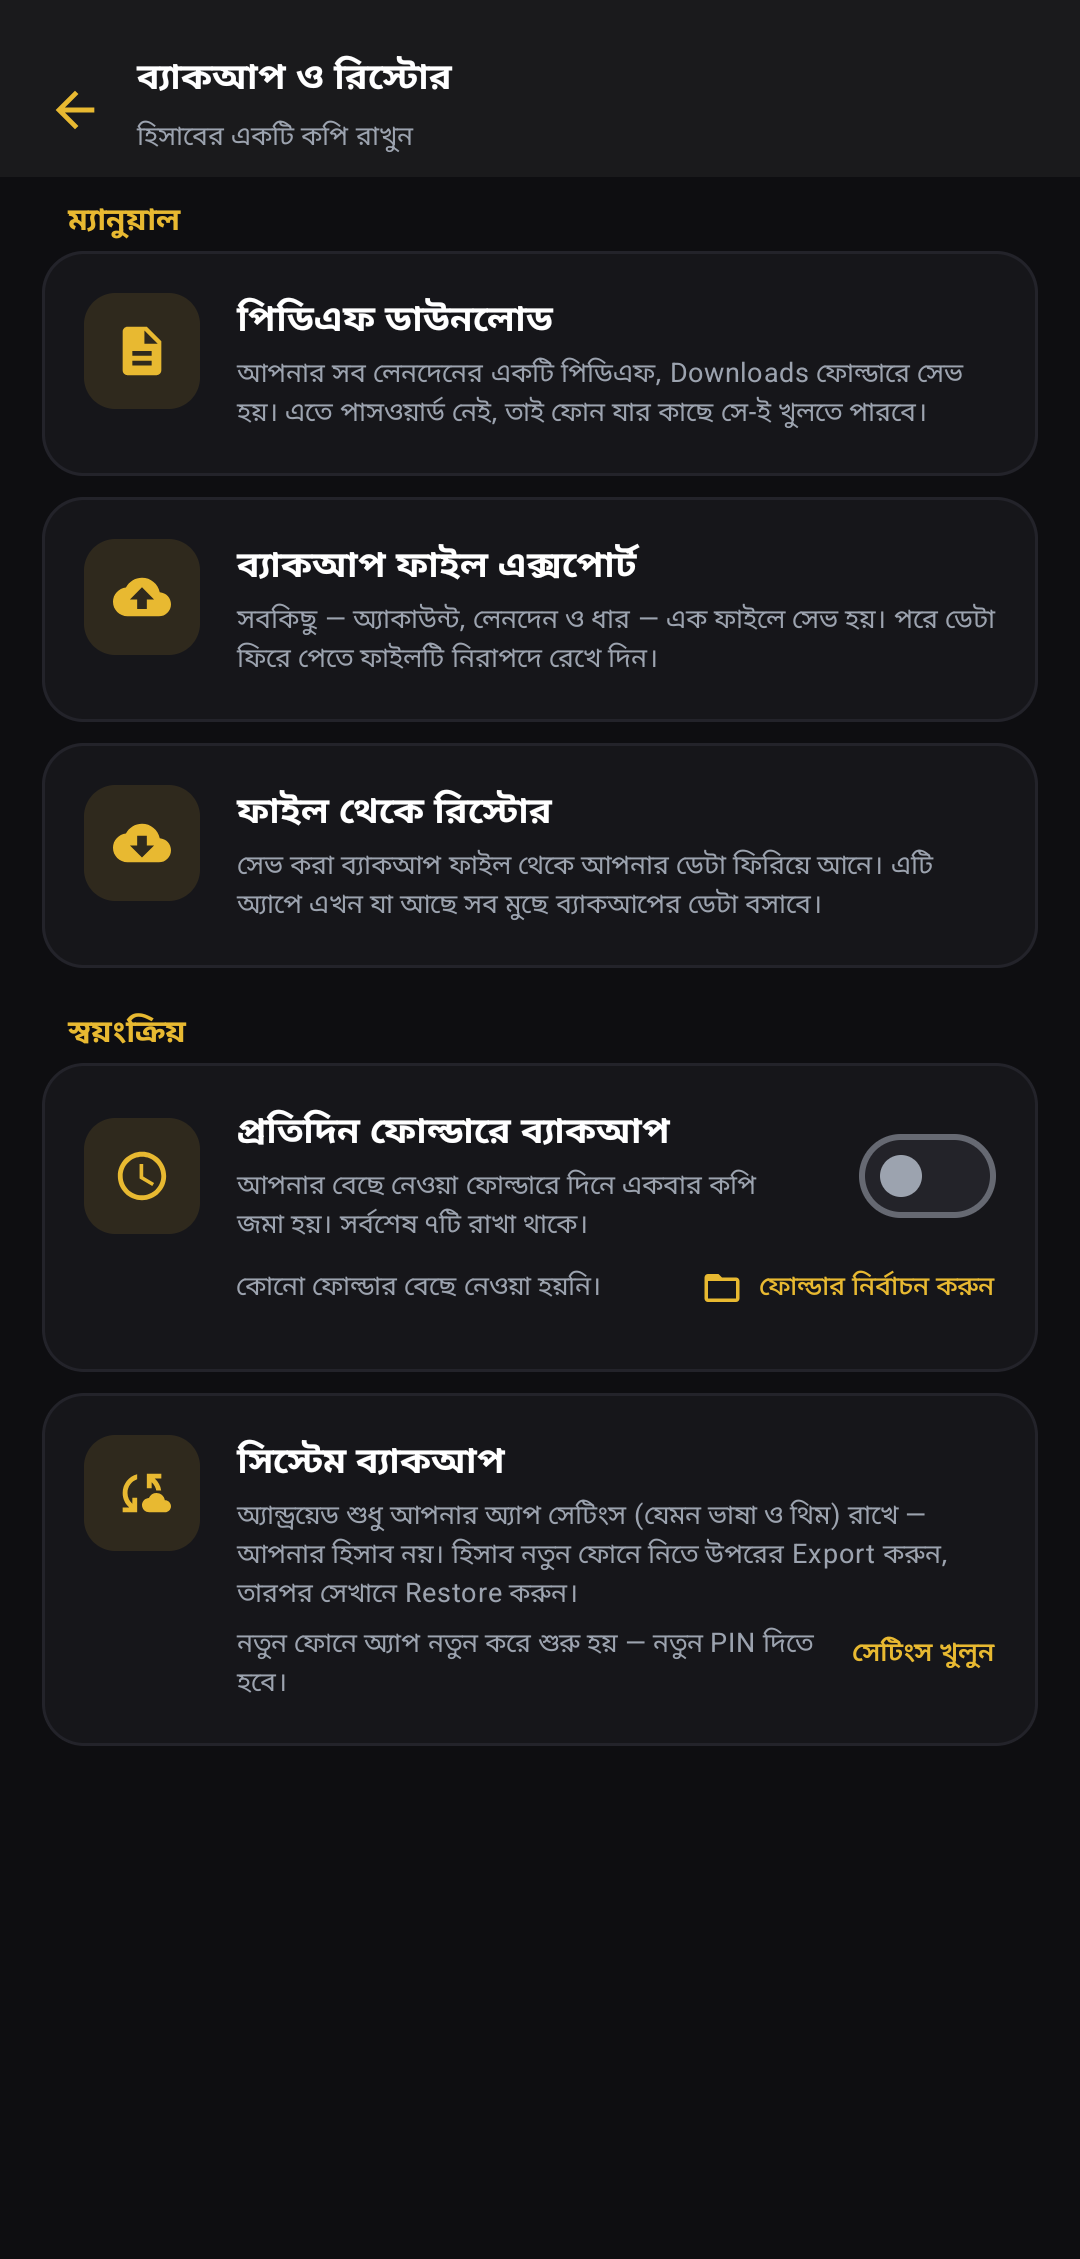
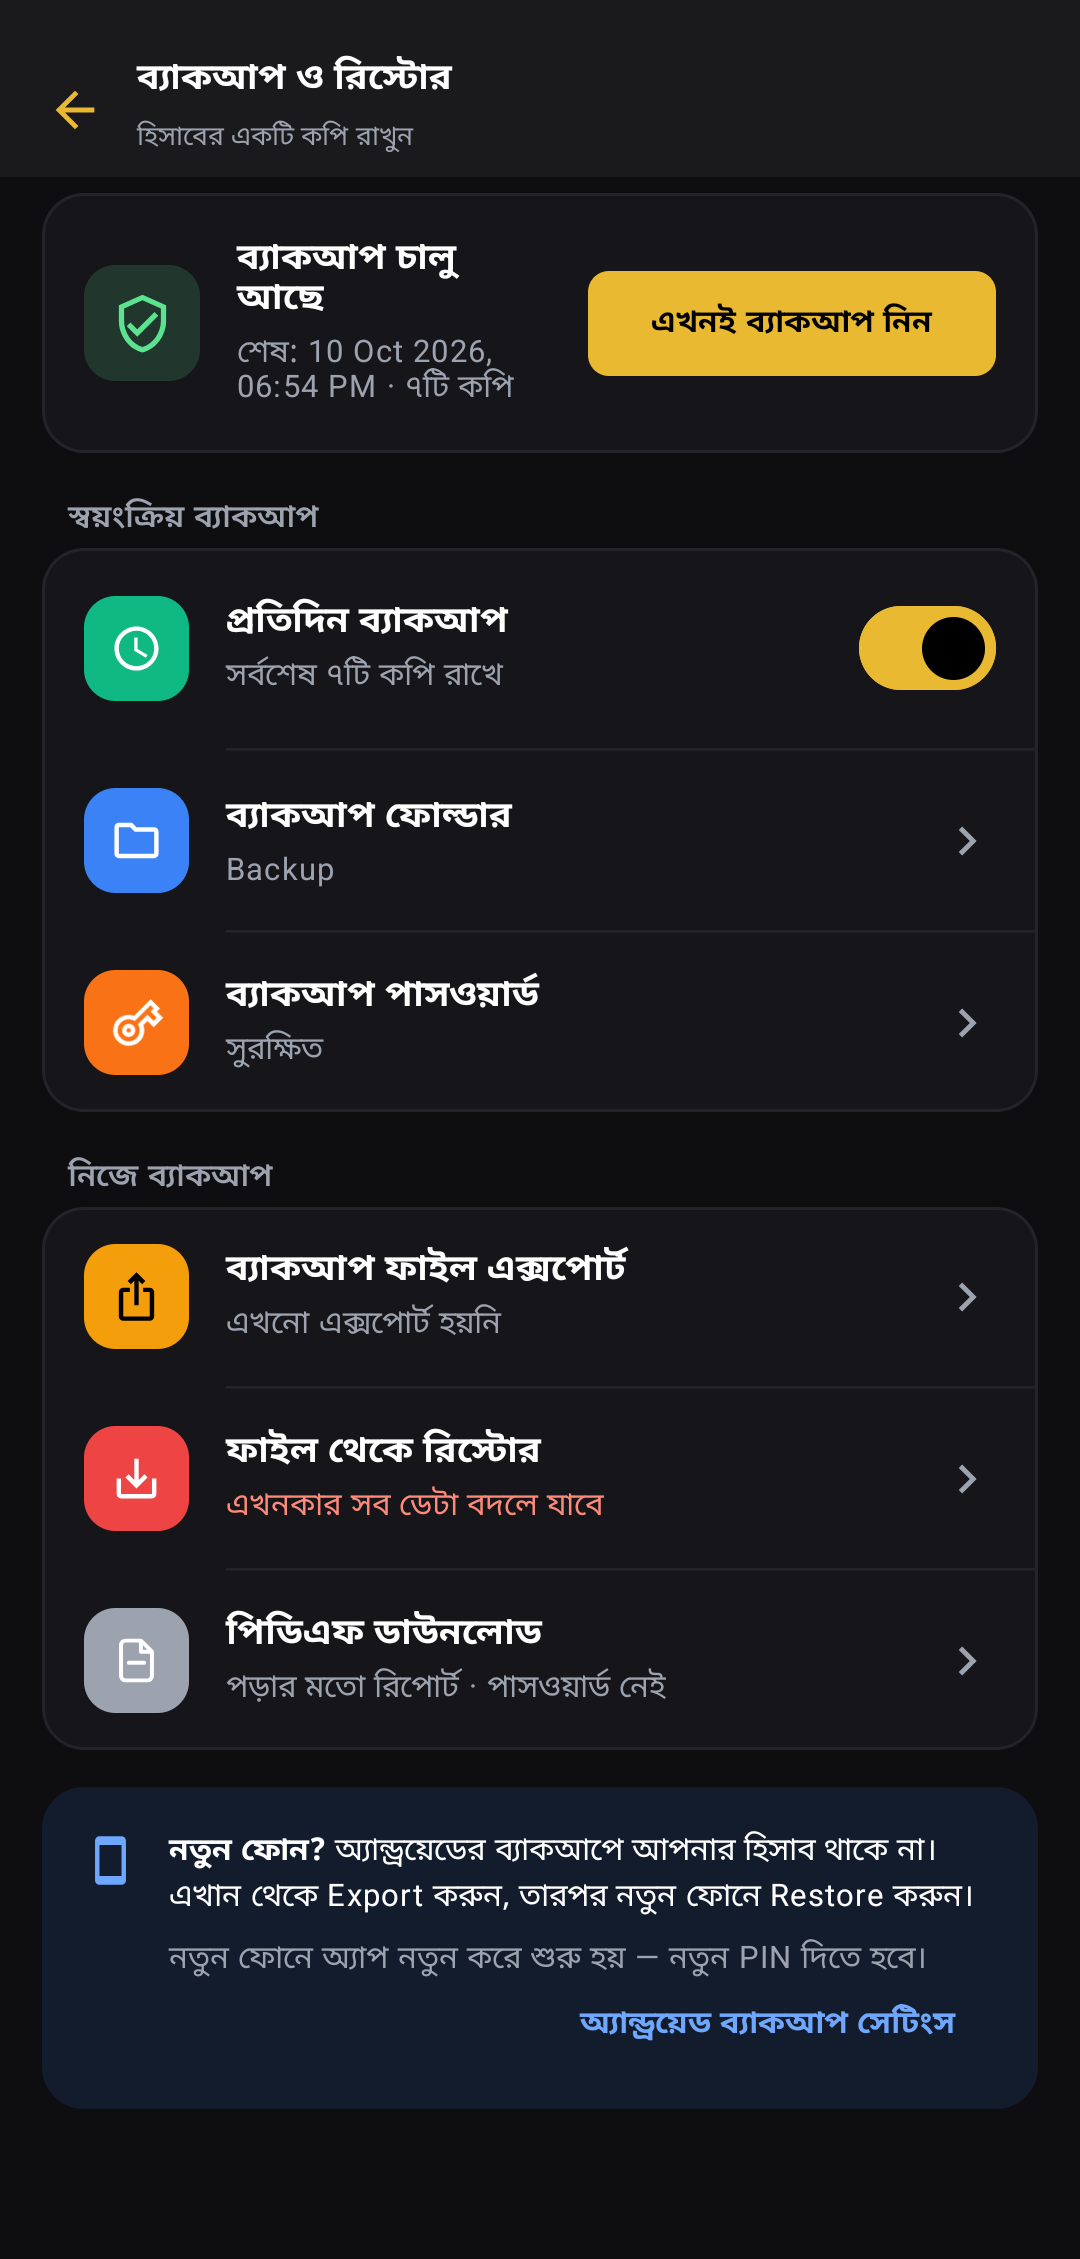
Website v2.14.5: the Backup picture follows the app's redesigned page
The app's Backup & Restore page was rebuilt -- a status card that answers
"am I covered?" first, then Automatic and Manual as two groups of rows
rather than six stacked cards, and a note at the foot about moving to a
new phone. The picture on the features page still showed the old layout,
down to a "System Backup" card that no longer exists.

Retaken on the Pixel_10 emulator against today's build, all four: light,
dark, English, Bangla. Same 1080x2259 crop as the rest, so the header
sits where every other screen's does.

A backup password is set in the shot. Without one the page shows its
orange "Backups Aren't Password-Protected" strip, which on a website
reads as something wrong with the app rather than as the state of one
test ledger.

diff --git a/features.html b/features.html
@@ -249,7 +249,7 @@
       <p data-s="footerNote">Built for keeping one household’s books. No trackers on this page.</p>
     </div>
     <p class="foot-links">
-      <span class="foot-ver" data-site-version>Website v2.14.4</span>
+      <span class="foot-ver" data-site-version>Website v2.14.5</span>
       <a href="privacy.html" data-s="navPrivacy">Privacy</a>
       <a href="install.html" data-s="navInstall">How to install</a>
     </p>

diff --git a/index.html b/index.html
@@ -313,7 +313,7 @@
       <p data-s="footerNote">Built for keeping one household’s books. No trackers on this page.</p>
     </div>
     <p class="foot-links">
-      <span class="foot-ver" data-site-version>Website v2.14.4</span>
+      <span class="foot-ver" data-site-version>Website v2.14.5</span>
       <a href="privacy.html" data-s="navPrivacy">Privacy</a>
       <a href="install.html" data-s="navInstall">How to install</a>
     </p>

diff --git a/install.html b/install.html
@@ -220,7 +220,7 @@
       <p data-s="footerNote">Built for keeping one household’s books. No trackers on this page.</p>
     </div>
     <p class="foot-links">
-      <span class="foot-ver" data-site-version>Website v2.14.4</span>
+      <span class="foot-ver" data-site-version>Website v2.14.5</span>
       <a href="privacy.html" data-s="navPrivacy">Privacy</a>
       <a href="install.html" data-s="navInstall">How to install</a>
     </p>

diff --git a/privacy.html b/privacy.html
@@ -200,7 +200,7 @@
       <p data-s="footerNote">Built for keeping one household’s books. No trackers on this page.</p>
     </div>
     <p class="foot-links">
-      <span class="foot-ver" data-site-version>Website v2.14.4</span>
+      <span class="foot-ver" data-site-version>Website v2.14.5</span>
       <a href="privacy.html" data-s="navPrivacy">Privacy</a>
       <a href="install.html" data-s="navInstall">How to install</a>
     </p>

diff --git a/assets/site.js b/assets/site.js
@@ -28,7 +28,7 @@ document.documentElement.classList.add('js');
  * number for a fix to what is there, the middle one for a new page, section or feature.
  * The app's version is a separate thing and comes from the releases API.
  */
-const SITE_VERSION = '2.14.4';
+const SITE_VERSION = '2.14.5';
 
 const LANGS = { en: 0, bn: 1 };
 // The language actually on the page. Where storage is blocked the saved choice cannot

diff --git a/CHANGELOG.md b/CHANGELOG.md
@@ -12,6 +12,7 @@ Counted back over the history when the number was introduced; repository houseke
 
 | Version | Date | Commit | What |
 |---|---|---|---|
+| 2.14.5 | 2026-10-10 | — | The Backup & Restore picture follows the app's redesigned page (status card, Automatic and Manual groups, the new-phone note) — all four: light, dark, English, Bangla |
 | 2.14.4 | 2026-10-09 | — | Pictures are shown at page size only: no full-size view, and no save, copy, drag or open-in-new-tab on a right-click or long-press; image search asked not to index them |
 | 2.14.3 | 2026-10-09 | 4f58fd1 | Pictures follow app 1.1.83 (home, transactions, backup); the share picture retaken; figures written into the pages (0 / 2 / 3, section and step numbers) in Bangla digits when the page is in Bangla |
 | 2.14.2 | 2026-10-09 | a4e4cbe | Fixes from a review: the backup password is the owner's choice, step 4 names the PIN-entry choice, the Google settings copy on deleting, meta description, internet and PDF wording, sitemap dates |

diff --git a/README.md b/README.md
@@ -50,7 +50,7 @@ read — the ink is a step deeper for exactly that reason. The app hit this same
 
 ## The website's version
 
-Every footer says "Website v2.14.4". `CHANGELOG.md` lists every version and what it was. The number lives once, as SITE_VERSION at the top of
+Every footer says "Website v2.14.5". `CHANGELOG.md` lists every version and what it was. The number lives once, as SITE_VERSION at the top of
 `assets/site.js`, and is raised on every publish: the last part for a fix to what is
 there, the middle part for a new page, section or feature. It is the site's own version and
 has nothing to do with the app's.
